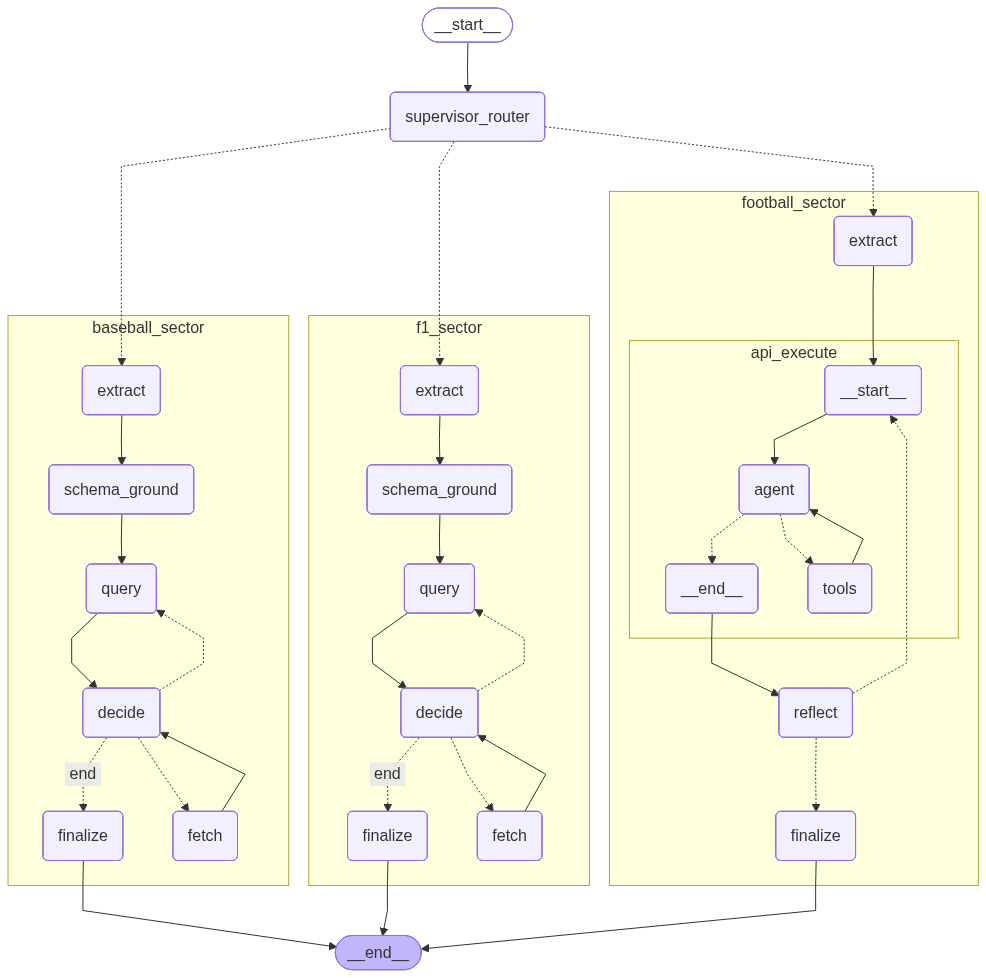
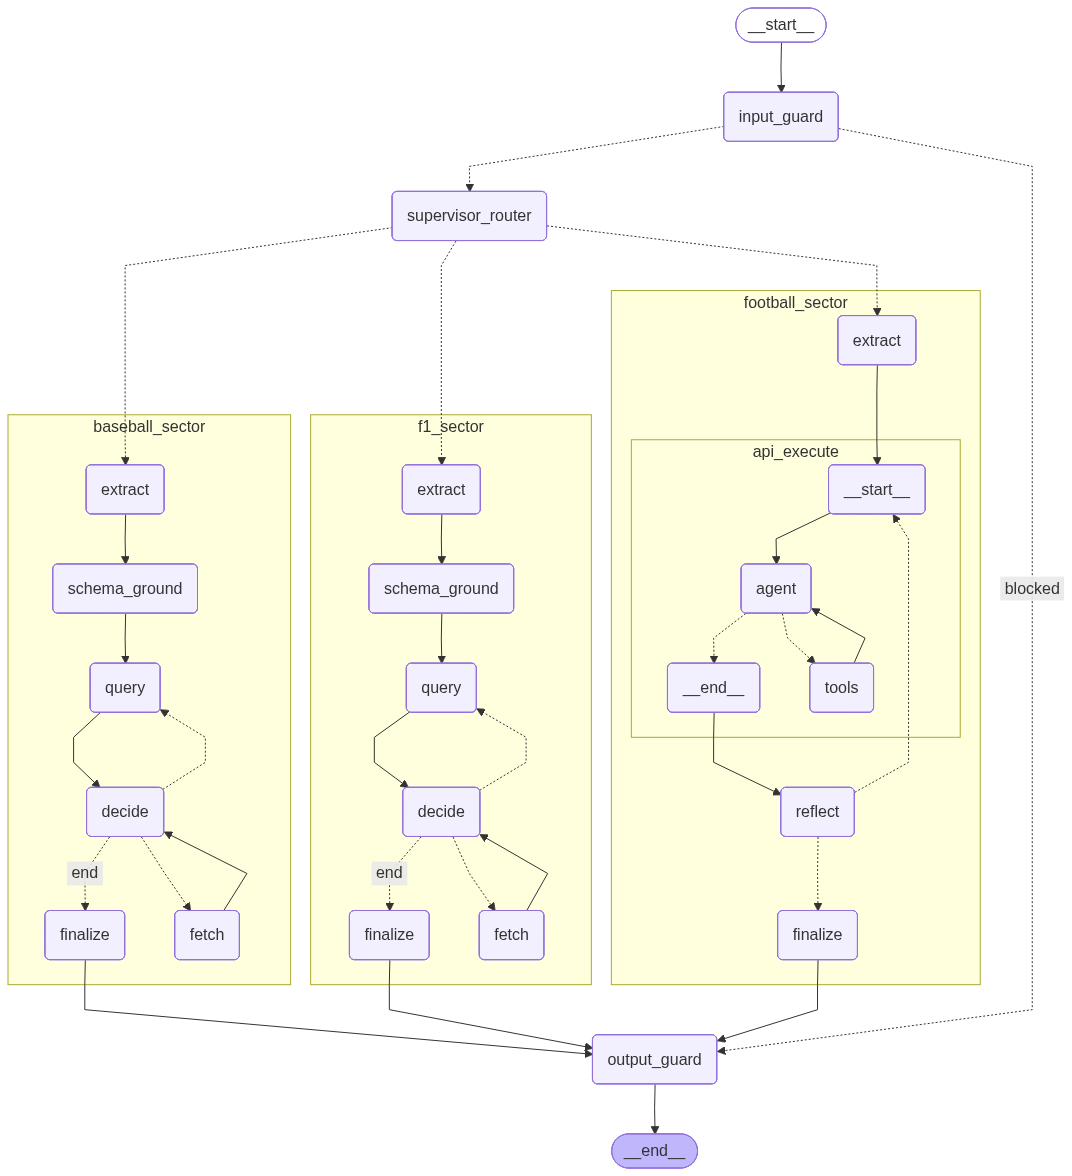
guardrails

diff --git a/App.jsx b/App.jsx
@@ -17,6 +17,7 @@ export default function App() {
   const [currentResponse, setCurrentResponse] = useState("");
   const [activeNodes, setActiveNodes] = useState([]);
   const [awaitingApproval, setAwaitingApproval] = useState(false);
+  const [currentThreadId, setCurrentThreadId] = useState(null);
 
   const messagesEndRef = useRef(null);
 
@@ -62,14 +63,19 @@ export default function App() {
     setAwaitingApproval(false);
 
     try {
+
       // POST requests with SSE require the native fetch API and a ReadableStream reader
+      const newThreadId = crypto.randomUUID();
+      setCurrentThreadId(newThreadId);
       const res = await fetch(`${API_URL}/chat/stream`, {
         method: "POST",
         headers: {
           "Content-Type": "application/json",
           "Authorization": `Bearer ${token}`
         },
-        body: JSON.stringify({ query })
+        body: JSON.stringify({ query: query,
+          user_role: "user",
+          thread_id: newThreadId })
       });
 
       if (!res.ok) throw new Error("API Error");
@@ -147,7 +153,11 @@ export default function App() {
     try {
       const res = await fetch(`${API_URL}/chat/resume`, {
         method: "POST",
-        headers: { "Authorization": `Bearer ${token}` }
+        headers: { "Authorization": `Bearer ${token}` },
+        body: JSON.stringify({
+          thread_id: currentThreadId,
+          action: "approved"
+        })
       });
       
       if (res.ok) {

diff --git a/twg-ui/src/useSportsAgent.js b/twg-ui/src/useSportsAgent.js
@@ -7,6 +7,7 @@ export function useSportsAgent() {
   const [isStreaming, setIsStreaming] = useState(false);
   const [hitlState, setHitlState] = useState({ isWaiting: false, data: null });
   const [error, setError] = useState('');
+  const threadId = useMemo(() => crypto.randomUUID(), []);
 
   const activeTrace = useMemo(() => {
     return traceOrder.map((node) => traceMap[node]).filter(Boolean);
@@ -73,7 +74,7 @@ export function useSportsAgent() {
       const response = await fetch('http://localhost:8000/chat/stream', {
         method: 'POST',
         headers: { 'Content-Type': 'application/json' },
-        body: JSON.stringify({ query, user_role: 'admin' }),
+        body: JSON.stringify({ query, user_role: 'admin', thread_id: threadId }),
       });
 
       if (!response.ok || !response.body) {
@@ -175,6 +176,11 @@ export function useSportsAgent() {
     try {
       const res = await fetch('http://localhost:8000/chat/resume', {
         method: 'POST',
+        headers: { 'Content-Type': 'application/json' },
+        body: JSON.stringify({
+        thread_id: threadId,
+        action: approved ? 'approved' : 'rejected',
+  }),
       });
 
       if (!res.ok) {

diff --git a/main.py b/main.py
@@ -15,6 +15,7 @@ logger = logging.getLogger(__name__)
 
 # Use a faster, lighter model for routing (lower latency for classification)
 router_llm = ChatGroq(model="llama-3.1-8b-instant", temperature=0,max_tokens=20)
+safety_checker = ChatGroq(model="meta-llama/llama-prompt-guard-2-22m", temperature=0)
 
 # Define valid sectors
 VALID_SECTORS = ["f1_sector", "football_sector", "baseball_sector"]
@@ -102,9 +103,44 @@ Output format: plain text sector name or JSON: {"sector": "sector_name"}"""
     except Exception as e:
         logger.error(f"Router LLM call failed: {e}. Using default sector: {DEFAULT_SECTOR}")
         return {"domain_detected": DEFAULT_SECTOR}
+    
+
+def global_input_guard_node(state: AgentState) -> dict:
+    print("--- GLOBAL INPUT GUARDRAIL ---")
+    query = state.get("query", "")
+    
+    # Llama Guard expects a specific format, but standard prompting works well via API
+    res = safety_checker.invoke([HumanMessage(content=query)])
+    
+    if "unsafe" in res.content.lower():
+        print(f">>> INPUT BLOCKED by Llama Guard: {res.content}")
+        return {
+            "is_safe": False, 
+            "guardrail_reason": res.content,
+            "final_response": "I cannot process this request due to safety policies."
+        }
+    
+    return {"is_safe": True, "guardrail_reason": ""}
+
+# --- Global Output Guardrail Node ---
+def global_output_guard_node(state: AgentState) -> dict:
+    print("--- GLOBAL OUTPUT GUARDRAIL ---")
+    response = state.get("final_response", "")
+    
+    # Example logic: Ensure PII or toxic content didn't leak
+    if "Social Security" in response or "credit card" in response.lower():
+        return {"final_response": "I cannot provide that information due to safety policies."}
+    return {}
+
+# --- Updating the Main Graph Assembly ---
+# 1. Add the new nodes
+
 
 # --- 2. THE GRAPH ASSEMBLY ---
 builder = StateGraph(AgentState)
+
+builder.add_node("input_guard", global_input_guard_node)
+builder.add_node("output_guard", global_output_guard_node)
 
 builder.add_node("supervisor_router", supervisor_router)
 # Register sector nodes
@@ -112,7 +148,17 @@ builder.add_node("f1_sector", f1_sector_graph)
 builder.add_node("football_sector", football_sector_graph)  # Uncomment when available
 builder.add_node("baseball_sector", baseball_sector_graph)  # Uncomment when available
 
-builder.add_edge(START, "supervisor_router")
+builder.add_edge(START, "input_guard")
+
+builder.add_conditional_edges(
+    "input_guard",
+    lambda state: "supervisor_router" if state.get("is_safe", True) else "blocked",
+    {
+        "supervisor_router": "supervisor_router",
+        "blocked": "output_guard"
+    }
+)
+
 
 
 # Conditional routing from START: supervisor_router decides which sector to route to
@@ -127,9 +173,10 @@ builder.add_conditional_edges(
 )
 
 # After sector processing, route to END
-builder.add_edge("f1_sector", END)
-builder.add_edge("football_sector", END)  # Uncomment when available
-builder.add_edge("baseball_sector", END)  # Uncomment when available
+builder.add_edge("f1_sector", "output_guard")
+builder.add_edge("football_sector", "output_guard")  # Uncomment when available
+builder.add_edge("baseball_sector", "output_guard")  # Uncomment when available
+builder.add_edge("output_guard", END)
 # --- 4. COMPILE & EXECUTE ---
 memory = MemorySaver()
 graph = builder.compile(checkpointer= memory)

diff --git a/backend_streaming.py b/backend_streaming.py
@@ -31,6 +31,8 @@ from main import graph  # Import the LLM router
 import logging
 from fastapi.security import OAuth2PasswordRequestForm
 from fastapi import Depends, status
+from langgraph.types import Command
+from fastapi import HTTPException, Request
 
 
 USERS_DB = {
@@ -62,6 +64,7 @@ class ChatRequest(BaseModel):
     """User chat message."""
     query: str
     user_role: str = "user"
+    thread_id: str
 
 
 class SSEEvent(BaseModel):
@@ -145,7 +148,8 @@ def emit_message(token: str, is_final: bool = False) -> str:
 
 async def stream_chat_agentic(
     query: str,
-    user_role: str = "user"
+    user_role: str = "user",
+    thread_id: str = "session_user",
 ) -> AsyncIterator[str]:
     """
     Stream response from agentic graph with dual-stream output.
@@ -165,7 +169,7 @@ async def stream_chat_agentic(
         SSE-formatted event strings
     """
     logger.info(f"Starting stream for query: {query[:50]}...")
-    config = {"configurable": {"thread_id": f"session_{user_role}"}}
+    config = {"configurable": {"thread_id": thread_id}}
 
     # Initialize graph state
     initial_state = {
@@ -366,7 +370,7 @@ async def chat_stream(request: ChatRequest) -> StreamingResponse:
                     print(event['data']['token'], end='', flush=True)
     """
     return StreamingResponse(
-        stream_chat_agentic(request.query, request.user_role),
+        stream_chat_agentic(request.query, request.user_role, request.thread_id),
         media_type="text/event-stream",
         headers={
             "Cache-Control": "no-cache",
@@ -380,11 +384,17 @@ async def chat_stream(request: ChatRequest) -> StreamingResponse:
 async def chat_resume(request: Request) -> dict:
     """Resumes the paused graph from memory when the user clicks Approve."""
     # Note: In production, extract user_role dynamically from headers
-    config = {"configurable": {"thread_id": "session_user"}}
+    payload = await request.json()
+    
+    # 2. Use the EXACT thread_id that was used in the /chat/stream endpoint
+    # (Falling back to "session_user" just in case you are hardcoding it everywhere)
+    thread_id = payload.get("thread_id", "session_user")
+    config = {"configurable": {"thread_id": thread_id}}
     
     try:
+        resume_value = payload.get("action", "approved")
         # Pass None to resume from the breakpoint
-        for event in graph.stream(None, config):
+        for event in graph.stream(Command(resume=resume_value), config):
             pass 
             
         final_state = graph.get_state(config)
@@ -403,7 +413,7 @@ async def chat_resume(request: Request) -> dict:
         return {"status": "success", "final_response": answer}
         
     except Exception as e:
-        logger.error(f"Resume error: {str(e)}")
+        logger.error(f"Resume checkpoint crash: {str(e)}")
         raise HTTPException(status_code=500, detail=str(e))
 
 

diff --git a/baseball_agent.py b/baseball_agent.py
@@ -177,10 +177,16 @@ def sync_baseball_data_to_neon(year: int, category: str) -> str:
             table_name = "dodgers_statcast"
         elif category == "roster":
             # Fetches active players and their IDs
-            from pybaseball import playerid_lookup
+            # from pybaseball import playerid_lookup
             # We can pull the Dodgers active roster (you could use pybaseball's roster function)
             # For simplicity, pybaseball.roster(year) fetches the team roster
-            df = pybaseball.roster(year, 'LAD')
+            log_node("PyBaseball Sync", f"Fetching roster for {year} LAD", "yellow")
+            df = pybaseball.rosters(year)
+            # Filter to Dodgers only
+            df = df[df['Team'].isin(['LAD', 'Dodgers', 'Los Angeles Dodgers'])]
+            # Keep useful roster columns and drop duplicates
+            keep_cols = ['Name', 'Team', 'Age', 'playerid'] if 'playerid' in df.columns else ['Name', 'Team', 'Age']
+            df = df[keep_cols].drop_duplicates() if not df.empty else df
             table_name = "dodgers_roster"
         else:
             raise ValueError(f"Unknown category: {category}")
@@ -244,7 +250,7 @@ def baseball_schema_ground_node(state: BaseballSubState) -> dict:
     
     # Read the DDL explicitly for grounding
     try:
-        with open("init_baseball_db.py", "r") as f:
+        with open("baseball_db_init.py", "r") as f:
             schema_text = f.read()
     except Exception as e:
         schema_text = "Schema unavailable."
@@ -424,7 +430,7 @@ def baseball_finalize_node(state: BaseballSubState) -> dict:
     
     try:
         # Use your initialized LLM to clean up the output
-        clean_response = llm.invoke([HumanMessage(content=synthesis_prompt)]).content
+        clean_response = extract_llm.invoke([HumanMessage(content=synthesis_prompt)]).content
         return {"final_response": clean_response}
     except Exception as e:
         # Fallback to raw result if the LLM fails so the user gets *something*

diff --git a/state.py b/state.py
@@ -10,3 +10,6 @@ class AgentState(TypedDict):
     user_role: str  
     domain_detected: str  
     final_response: str
+
+    is_safe: bool
+    guardrail_reason: str
